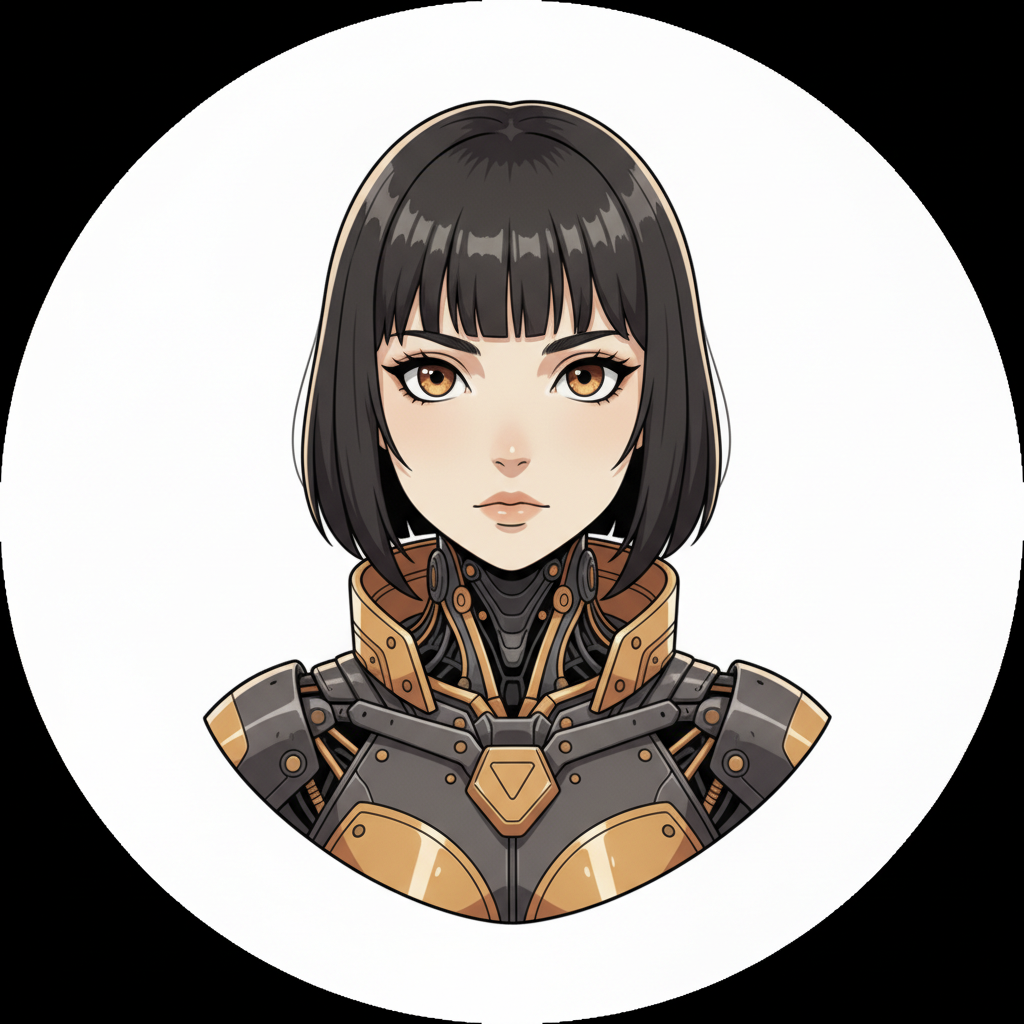
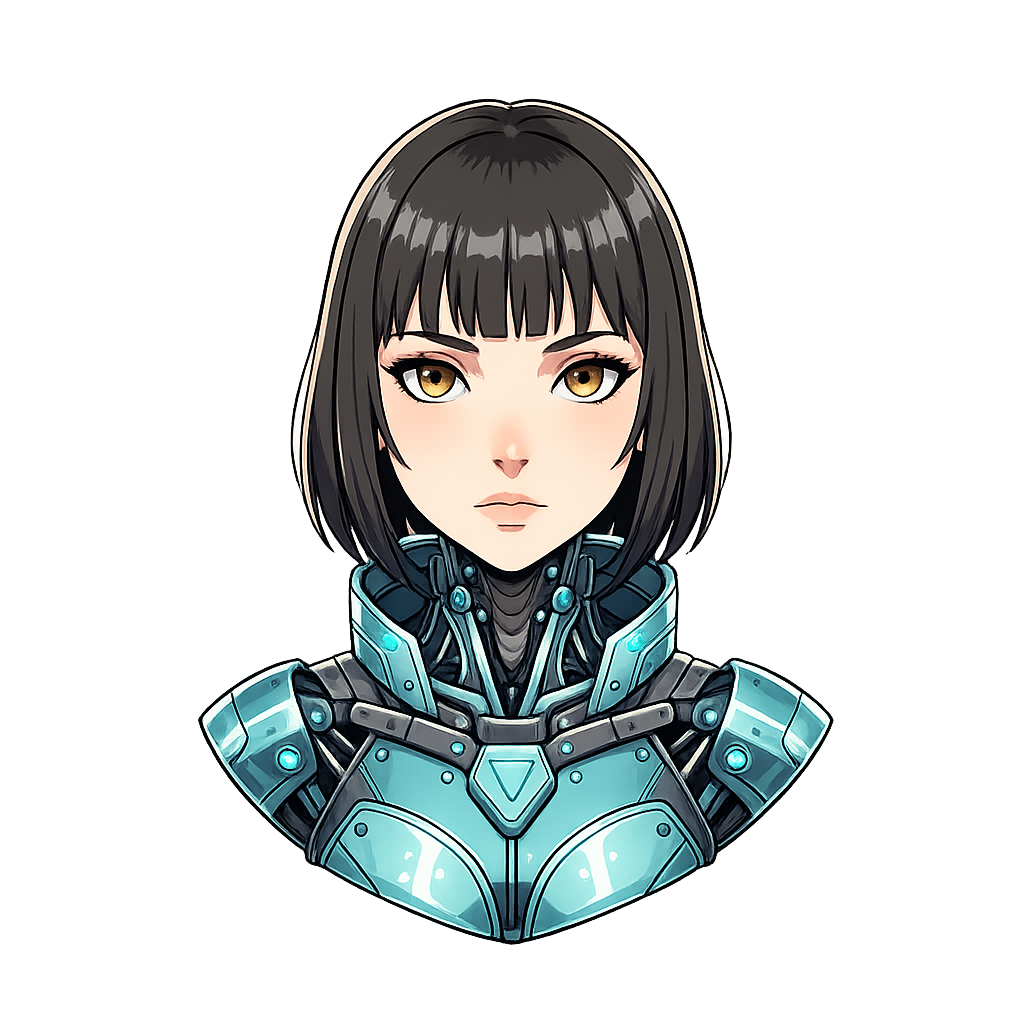
Friday image on right side of desktop layout (1300px+)

diff --git a/index.html b/index.html
@@ -615,6 +615,10 @@ body::before {
   display: flex; align-items: center; gap: 10px;
   margin: 4px 0 14px;
 }
+.friday-side {
+  display: none;
+}
+.friday-side img { width: 100%; height: 100%; object-fit: contain; display: block; }
 .divider-line { flex: 1; height: 1px; background: rgba(0, 212, 255, 0.1); }
 .divider-text { font-size: 10px; font-weight: 600; color: var(--text-dim); text-transform: uppercase; letter-spacing: 1px; }
 
@@ -659,6 +663,26 @@ body::before {
   .data-num { font-size: 32px; }
   .stat-val { font-size: 26px; }
   .hud-header { margin-bottom: 28px; }
+}
+
+@media (min-width: 1300px) {
+  .friday-side {
+    display: block;
+    position: fixed;
+    right: 20px;
+    top: 50%;
+    transform: translateY(-50%);
+    width: 260px;
+    height: auto;
+    max-height: 90vh;
+    z-index: 0;
+    opacity: 0.85;
+    pointer-events: none;
+  }
+}
+
+@media (min-width: 1600px) {
+  .friday-side { width: 320px; right: 40px; }
 }
 
 ::-webkit-scrollbar { width: 6px; }
@@ -790,6 +814,10 @@ body::before {
       </div>
     </div>
   </div>
+</div>
+
+<div class="friday-side">
+  <img src="friday.png" alt="Friday">
 </div>
 
 <!-- Toast Container -->
